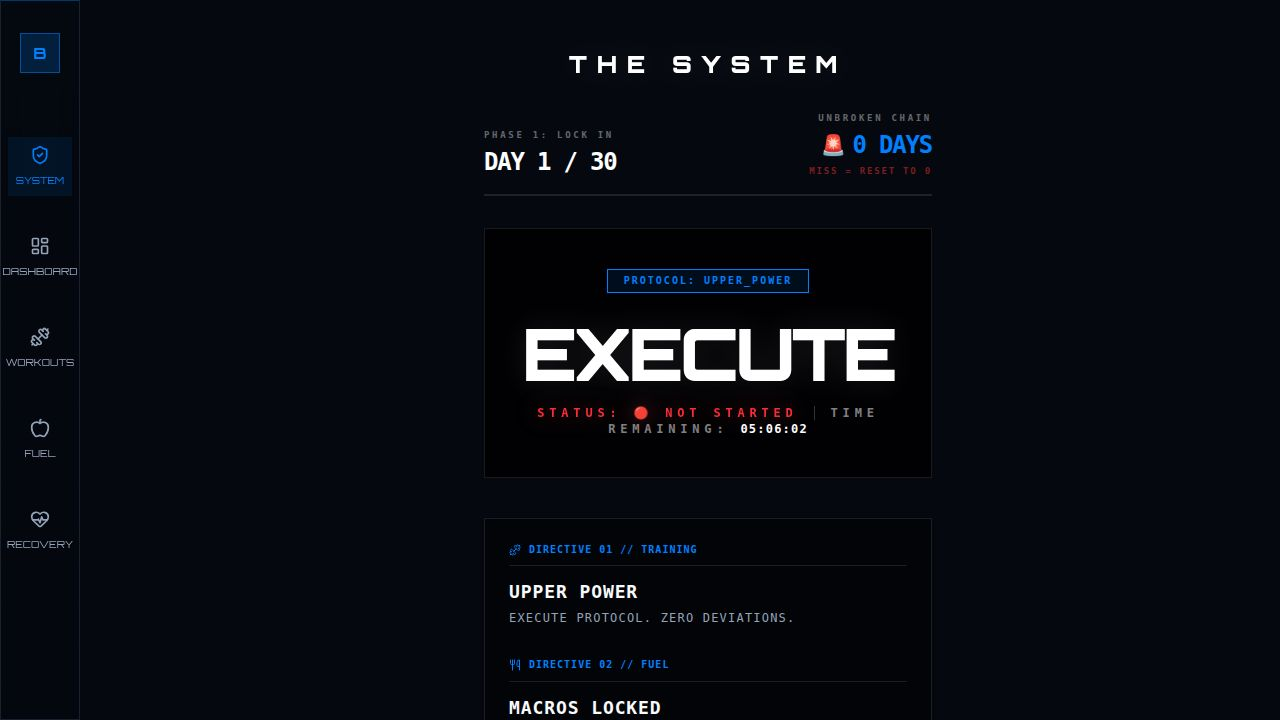
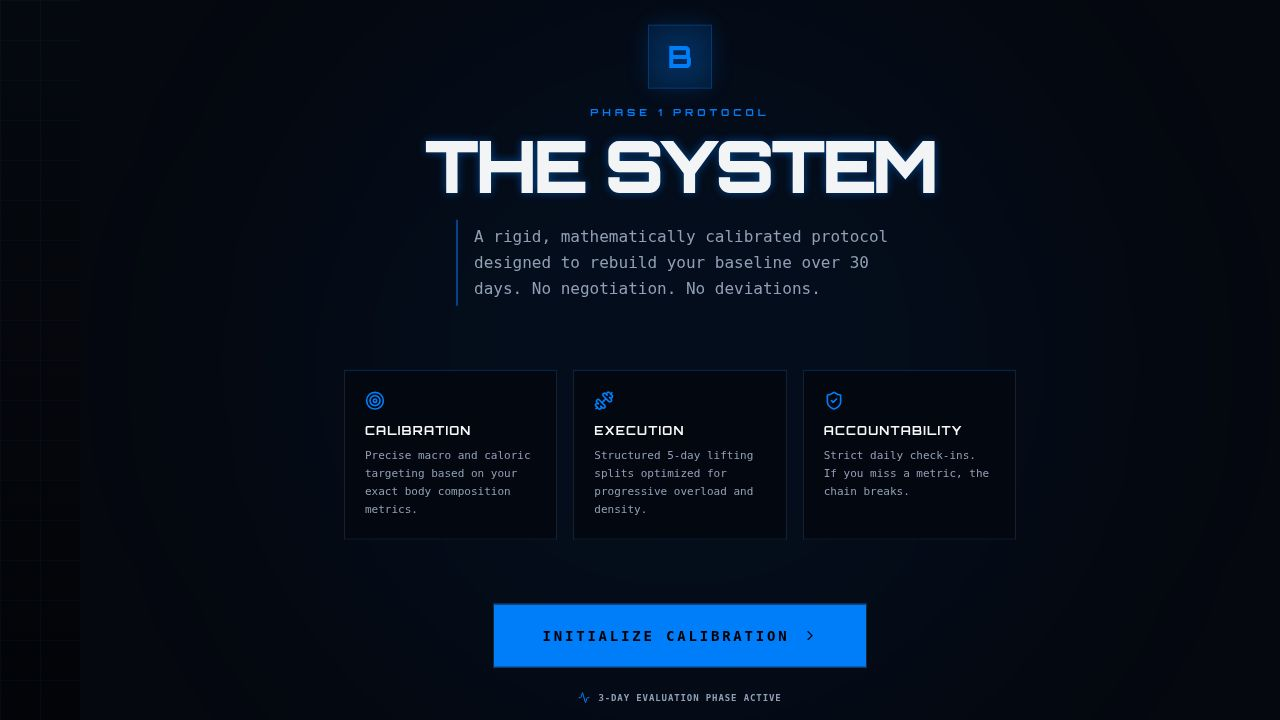
Add a minimalist welcome screen for new users
Introduce a new `/welcome` route and page component. Update `App.tsx` to conditionally hide navigation for `/welcome` and `/onboarding` routes. Modify the `useEffect` in `App.tsx` to redirect users with `totalDays === 0` to `/welcome`. Adjust the `resetSystem` redirect in `blueprint.tsx` to point to `/welcome` instead of `/`.

Replit-Commit-Author: Agent
Replit-Commit-Session-Id: 25b280e0-415f-4aa2-aa81-2b472545ac74
Replit-Commit-Checkpoint-Type: full_checkpoint
Replit-Commit-Event-Id: cec84922-80c2-4574-8702-8bbe87cea250
Replit-Commit-Screenshot-Url: https://storage.googleapis.com/screenshot-production-us-central1/e563b148-b593-4327-8bd6-2846d65d3909/25b280e0-415f-4aa2-aa81-2b472545ac74/l0HNbbU
Replit-Helium-Checkpoint-Created: true

diff --git a/client/src/pages/welcome.tsx b/client/src/pages/welcome.tsx
@@ -1,0 +1,81 @@
+import { Button } from "@/components/ui/button";
+import { Link } from "wouter";
+import { ChevronRight, ShieldCheck, Dumbbell, Activity, Target } from "lucide-react";
+
+export default function Welcome() {
+  return (
+    <div className="min-h-screen bg-background flex flex-col items-center justify-center p-6 font-mono text-sm relative overflow-hidden">
+      {/* Background aesthetics */}
+      <div className="absolute top-1/2 left-1/2 -translate-x-1/2 -translate-y-1/2 w-[800px] h-[800px] bg-primary/5 rounded-full blur-[120px] pointer-events-none" />
+      <div className="absolute inset-0 bg-[url('https://grainy-gradients.vercel.app/noise.svg')] opacity-20 pointer-events-none mix-blend-overlay"></div>
+      
+      <div className="w-full max-w-2xl relative z-10 animate-in fade-in slide-in-from-bottom-8 duration-1000">
+        
+        {/* Top Header */}
+        <div className="flex flex-col items-center text-center mb-16 space-y-6">
+          <div className="w-16 h-16 bg-primary/10 border border-primary/30 flex items-center justify-center mb-4 relative group">
+            <div className="absolute inset-0 bg-primary/20 blur-md group-hover:blur-xl transition-all duration-500"></div>
+            <span className="text-3xl font-display font-bold text-primary relative z-10">B</span>
+          </div>
+          
+          <div className="space-y-4">
+            <div className="text-primary font-display font-bold tracking-[0.4em] text-[10px] uppercase">
+              Phase 1 Protocol
+            </div>
+            <h1 className="text-5xl md:text-7xl font-black text-glow uppercase tracking-tighter leading-[0.85]">
+              THE SYSTEM
+            </h1>
+            <p className="text-muted-foreground text-sm md:text-base max-w-md mx-auto leading-relaxed border-l-2 border-primary/50 pl-4 py-1 text-left mt-6">
+              A rigid, mathematically calibrated protocol designed to rebuild your baseline over 30 days. No negotiation. No deviations.
+            </p>
+          </div>
+        </div>
+
+        {/* Feature Grid */}
+        <div className="grid grid-cols-1 md:grid-cols-3 gap-4 mb-16">
+          <div className="glass-panel p-5 border-white/5 border-t-primary/30">
+            <Target className="w-5 h-5 text-primary mb-3" />
+            <h3 className="font-bold text-white uppercase tracking-widest text-xs mb-2">Calibration</h3>
+            <p className="text-muted-foreground text-[11px] leading-relaxed">
+              Precise macro and caloric targeting based on your exact body composition metrics.
+            </p>
+          </div>
+          
+          <div className="glass-panel p-5 border-white/5 border-t-primary/30">
+            <Dumbbell className="w-5 h-5 text-primary mb-3" />
+            <h3 className="font-bold text-white uppercase tracking-widest text-xs mb-2">Execution</h3>
+            <p className="text-muted-foreground text-[11px] leading-relaxed">
+              Structured 5-day lifting splits optimized for progressive overload and density.
+            </p>
+          </div>
+          
+          <div className="glass-panel p-5 border-white/5 border-t-primary/30">
+            <ShieldCheck className="w-5 h-5 text-primary mb-3" />
+            <h3 className="font-bold text-white uppercase tracking-widest text-xs mb-2">Accountability</h3>
+            <p className="text-muted-foreground text-[11px] leading-relaxed">
+              Strict daily check-ins. If you miss a metric, the chain breaks.
+            </p>
+          </div>
+        </div>
+
+        {/* CTA Area */}
+        <div className="flex flex-col items-center space-y-6">
+          <Link href="/onboarding">
+            <Button className="h-16 px-12 rounded-none bg-primary text-black hover:bg-primary/90 font-bold uppercase tracking-[0.2em] text-sm shadow-[0_0_30px_hsl(var(--primary)/0.3)] transition-all group overflow-hidden relative">
+              <span className="relative z-10 flex items-center gap-3">
+                INITIALIZE CALIBRATION <ChevronRight className="w-4 h-4 group-hover:translate-x-1 transition-transform" />
+              </span>
+              <div className="absolute inset-0 bg-white/20 translate-y-full group-hover:translate-y-0 transition-transform duration-300"></div>
+            </Button>
+          </Link>
+          
+          <div className="flex items-center gap-2 text-[9px] text-muted-foreground uppercase tracking-widest font-bold">
+            <Activity className="w-3 h-3 text-primary" /> 
+            3-Day Evaluation Phase Active
+          </div>
+        </div>
+
+      </div>
+    </div>
+  );
+}

diff --git a/client/src/App.tsx b/client/src/App.tsx
@@ -5,6 +5,7 @@ import { Toaster } from "@/components/ui/toaster";
 import { TooltipProvider } from "@/components/ui/tooltip";
 import { Dumbbell, LayoutDashboard, Target, Apple, HeartPulse, ShieldCheck, ImageIcon } from "lucide-react";
 import NotFound from "@/pages/not-found";
+import { useEffect } from "react";
 
 import Home from "@/pages/home";
 import Blueprint from "@/pages/blueprint";
@@ -13,12 +14,13 @@ import Nutrition from "@/pages/nutrition";
 import Workouts from "@/pages/workouts";
 import Recovery from "@/pages/recovery";
 import Paywall from "@/pages/paywall";
+import Welcome from "@/pages/welcome";
 import { useSystem } from "@/hooks/use-system";
 
 function Navigation() {
   const [location] = useLocation();
 
-  if (location === "/onboarding") return null;
+  if (location === "/onboarding" || location === "/welcome") return null;
 
   const navItems = [
     { href: "/", icon: ShieldCheck, label: "System" },
@@ -58,6 +60,7 @@ function Router() {
     <div className="min-h-screen md:pl-20 pb-16 md:pb-0 blueprint-grid">
       <Switch>
         <Route path="/" component={Home} />
+        <Route path="/welcome" component={Welcome} />
         <Route path="/onboarding" component={Onboarding} />
         <Route path="/blueprint" component={Blueprint} />
         <Route path="/nutrition" component={Nutrition} />
@@ -73,11 +76,19 @@ function Router() {
 
 function App() {
   const { state } = useSystem();
+  const [location, setLocation] = useLocation();
   const isFailing = state.recoveryState === "breached";
   const isRebuilding = state.recoveryState === "rebuilding";
 
   // Check if trial is over (3 days completed) and user hasn't paid
   const isTrialExpired = state.totalDays >= 3 && !state.hasPaid;
+  
+  // Direct new users to the welcome page
+  useEffect(() => {
+    if (state.totalDays === 0 && location !== "/welcome" && location !== "/onboarding") {
+      setLocation("/welcome");
+    }
+  }, [state.totalDays, location, setLocation]);
 
   if (isTrialExpired) {
     return (

diff --git a/client/src/pages/blueprint.tsx b/client/src/pages/blueprint.tsx
@@ -281,7 +281,7 @@ export default function Blueprint() {
               onClick={() => {
                 if (window.confirm("ARE YOU SURE YOU WANT TO RESET THE SYSTEM TO DAY 1? THIS CANNOT BE UNDONE.")) {
                   resetSystem();
-                  window.location.href = '/';
+                  window.location.href = '/welcome';
                 }
               }}
             >
